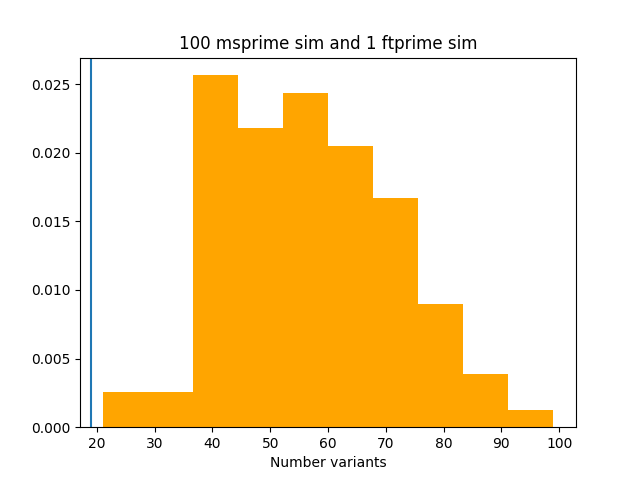
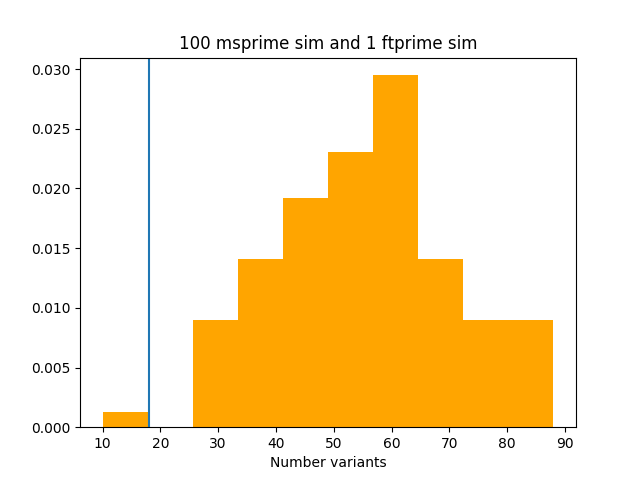
Switching to unit length doesn't help

diff --git a/sims/benchmark-simuPOP.py b/sims/benchmark-simuPOP.py
@@ -172,7 +172,7 @@ args.sel_mut_rate = args.mut_rate * args.pdel
 # >The default positions are 1, 2, 3, 4, ... on each
 # >chromosome.
 
-locus_position = list(range(0, args.nloci))
+locus_position = list(i / args.nloci for i in range(0, args.nloci))
 
 # logfile.write("Locus positions:\n")
 # logfile.write(str(locus_position)+"\n")
